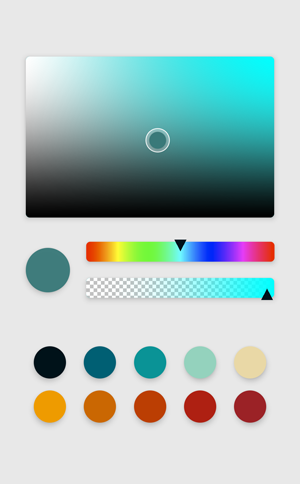
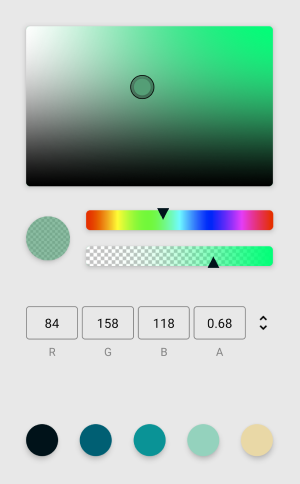
Add `InputWidget` docs

diff --git a/docusaurus/docs/API/InputWidget.md b/docusaurus/docs/API/InputWidget.md
@@ -1,0 +1,54 @@
+---
+sidebar_position: 11
+sidebar_label: InputWidget
+description: The input widget component allows you to input color values in various formats.
+---
+
+# `<InputWidget />`
+
+![InputWidget](../../../images/InputWidgets.png)
+
+- The input widget component allows you to input color values in various formats, including RGB, HEX, HSL, HWB, and HSV. The component features a button that lets you cycle through these formats, making it easy to switch between them and find the one that suits your needs.
+
+## Props
+
+### `defaultFormat`
+
+- The `defaultFormat` prop determines the initial color format for the input widget component.
+- It accepts one of the following values: `'HEX' | 'RGB' | 'HSL' | 'HWB' | 'HSV'`
+
+### `formats`
+
+- The `formats` prop determines which color formats are included in the input widget component and the order they appear when cycling through them.
+- It accepts an array of the following values: `'HEX' | 'RGB' | 'HSL' | 'HWB' | 'HSV'`
+
+### `inputStyle`
+
+- The `inputStyle` prop sets the style for the `InputText` components that make up the input fields for each color format.
+- It accepts a `StyleProp<TextStyle>` object.
+
+### `inputProps`
+
+- The `inputProps` prop sets the props for the `TextInput` components that make up the input fields for each color format.
+- It accepts an `InputProps` object.
+
+### `inputTitleStyle`
+
+- The `inputTitleStyle` prop sets the style for the `Text` component that displays the title for the input fields.
+- This title is located below the input fields and indicates which color format is currently displayed.
+- It accepts a `StyleProp<TextStyle>` object.
+
+### `containerStyle`
+
+- The `containerStyle` prop sets the style for the `View` component that wraps around all the input fields and the cycle button.
+- It accepts a `StyleProp<ViewStyle>` object.
+
+### `iconColor`
+
+- The `iconColor` prop sets the color for the cycle button icon, which is an Image component that cycles through the available color formats when clicked.
+- It accepts a `string` representing a color value.
+
+### `iconStyle`
+
+- The `iconStyle` prop sets the style for the cycle button icon.
+- It accepts a `StyleProp<ImageStyle>` object.
